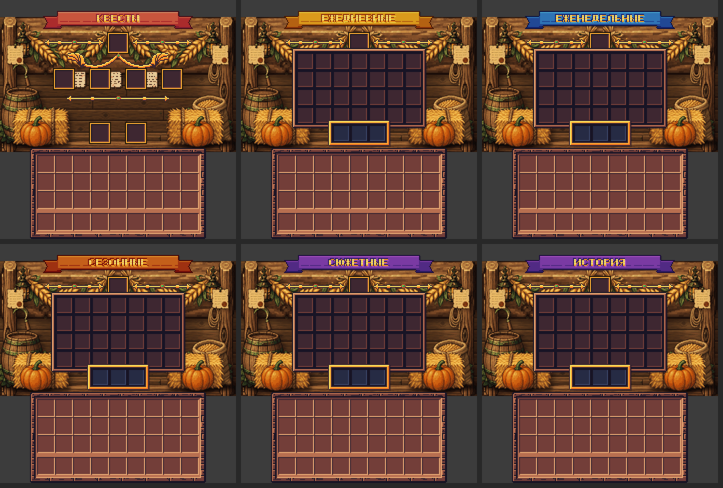
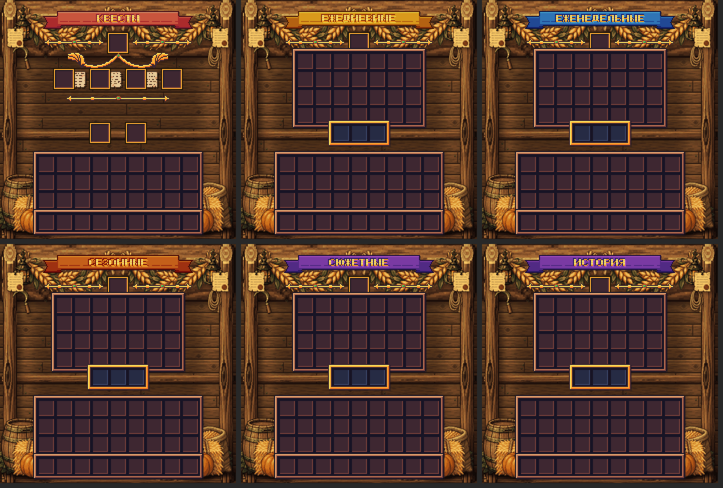
Quest menus: barn scene over the whole window, inventory framed like the quest board
Claude-Session: https://claude.ai/code/session_015YcF29gpWmsD2yM9RNNMWT

diff --git a/ZenQuests/gui-specs/scene_compose.py b/ZenQuests/gui-specs/scene_compose.py
@@ -6,7 +6,7 @@ import sys, os
 from PIL import Image, ImageFilter, ImageDraw, ImageChops
 
 A = os.path.dirname(os.path.abspath(__file__)); OUT = sys.argv[1]
-W, H = 472, 270
+W, H = 472, 478          # всё окно: 239 GUI px (17 верх + 222)
 G = 2                       # px текстуры на 1 px интерфейса
 
 def load(n, gw=None, gh=None):
@@ -54,10 +54,11 @@ glow(52, 70, 70); glow(W - 52, 70, 70)
 # ── верхняя балка ──
 beam = load('beam', gw=236); beam = beam.resize((W, beam.height), Image.LANCZOS)
 put(beam, (0, -2), off=(0, 6), alpha=140)
-# ── пол: тёмная половая доска внизу ──
+# ── пол внизу и балка-перекладина между доской квестов и инвентарём (GUI y 131..137) ──
 floor = beam.resize((W, 22), Image.LANCZOS); put(floor, (0, H - 22), off=(0, -5), alpha=120)
+mid = beam.resize((W, 14), Image.LANCZOS); put(mid, (0, 262), off=(0, 6), alpha=140)
 # ── столбы ──
-post = load('post', gh=140)
+post = load('post', gh=245)
 post = post.resize((28, post.height), Image.LANCZOS)                 # столб 14 GUI px шириной, во всю высоту
 r_, g_, b_, a_ = post.split(); post.putalpha(a_.point(lambda v: 255 if v > 110 else 0))
 for x in (6, W - 6 - post.width):

diff --git a/ZenQuests/gui-specs/inventory_frame.py b/ZenQuests/gui-specs/inventory_frame.py
@@ -1,0 +1,17 @@
+"""Рама и колодцы инвентаря игрока в стиле доски квестов — дорисовываются на накладку после gui_builder
+(в спеках draw_player_inventory: false). Запуск из scripts/ скилла: python3 inventory_frame.py OVERLAY.png ..."""
+import sys; sys.path.insert(0, '.')
+from PIL import Image
+import props, art
+OX, OY, PAD, INNER = 30, 17, 4, '#3e2731'
+for p in sys.argv[1:]:
+    img = Image.open(p).convert('RGBA')
+    for y0, rows in ((138, 3), (196, 1)):                       # 9x3 инвентарь и хотбар (6-рядный сундук)
+        x0, y, w, h = OX + 7, OY + y0, 9 * 18, rows * 18
+        fr = props.frame(w + 2 * PAD, h + 2 * PAD, 'wood', INNER)
+        art.drop_shadow(img, (x0 - PAD, y - PAD, x0 + w - 1 + PAD, y + h - 1 + PAD)); img.alpha_composite(fr, (x0 - PAD, y - PAD))
+        for r in range(rows):
+            for c in range(9): img.alpha_composite(props.well(18, INNER), (x0 + 18 * c, y + 18 * r))
+    px = img.load()
+    if px[235, 238][3] == 0: px[235, 238] = (0, 0, 0, 1)        # якорь ширины глифа
+    img.save(p)

diff --git a/ZenQuests/gui-specs/README.md b/ZenQuests/gui-specs/README.md
@@ -4,8 +4,10 @@
 `art/parts/` и `art/wall_full.png`): тайл дощатой стены с виньеткой и тёплым светом фонарей, балка, столбы во всю
 высоту, гирлянды, записки, верёвка и серп, кусты (задний план), бочка и мешок, сено, тыквы (передний план); у каждой
 части мягкая тень на стене и контактная тень снизу. Части и стена сгенерированы Figma AI (`art/parts_full.png`,
-`art/wall_full.png`) и вырезаны по цвету фона. Плашки под «Инвентарь» больше нет. Панель инвентаря игрока рисуется в накладке в теме `spruce` (тёмные доски,
-ячейки-колодцы) — она непрозрачная, поэтому у игроков с любым своим ресурспаком меню выглядит одинаково.
+`art/wall_full.png`) и вырезаны по цвету фона. Плашки под «Инвентарь» больше нет. Инвентарь игрока: сцена амбара продолжается вниз на всё окно (472x478, плитки 236x240 / 236x238, height 120/119,
+ascent 30 / -90), а рама и колодцы инвентаря и хотбара дорисовываются на накладку `inventory_frame.py` в том же
+стиле, что доска квестов (`draw_player_inventory: false` в спеках). Всё непрозрачно — у игроков с любым своим
+ресурспаком меню выглядит одинаково.
 
 Текущая схема — HD: сцена `art/barn_hd.png` (472x270 = 2 px текстуры на 1 px интерфейса) режется на 4 плитки
 `textures/gui/scene/scene_{tl,tr,bl,br}.png` (236x136 / 236x134), в `menu_font.json` они — bitmap с `height` 68/67 и
